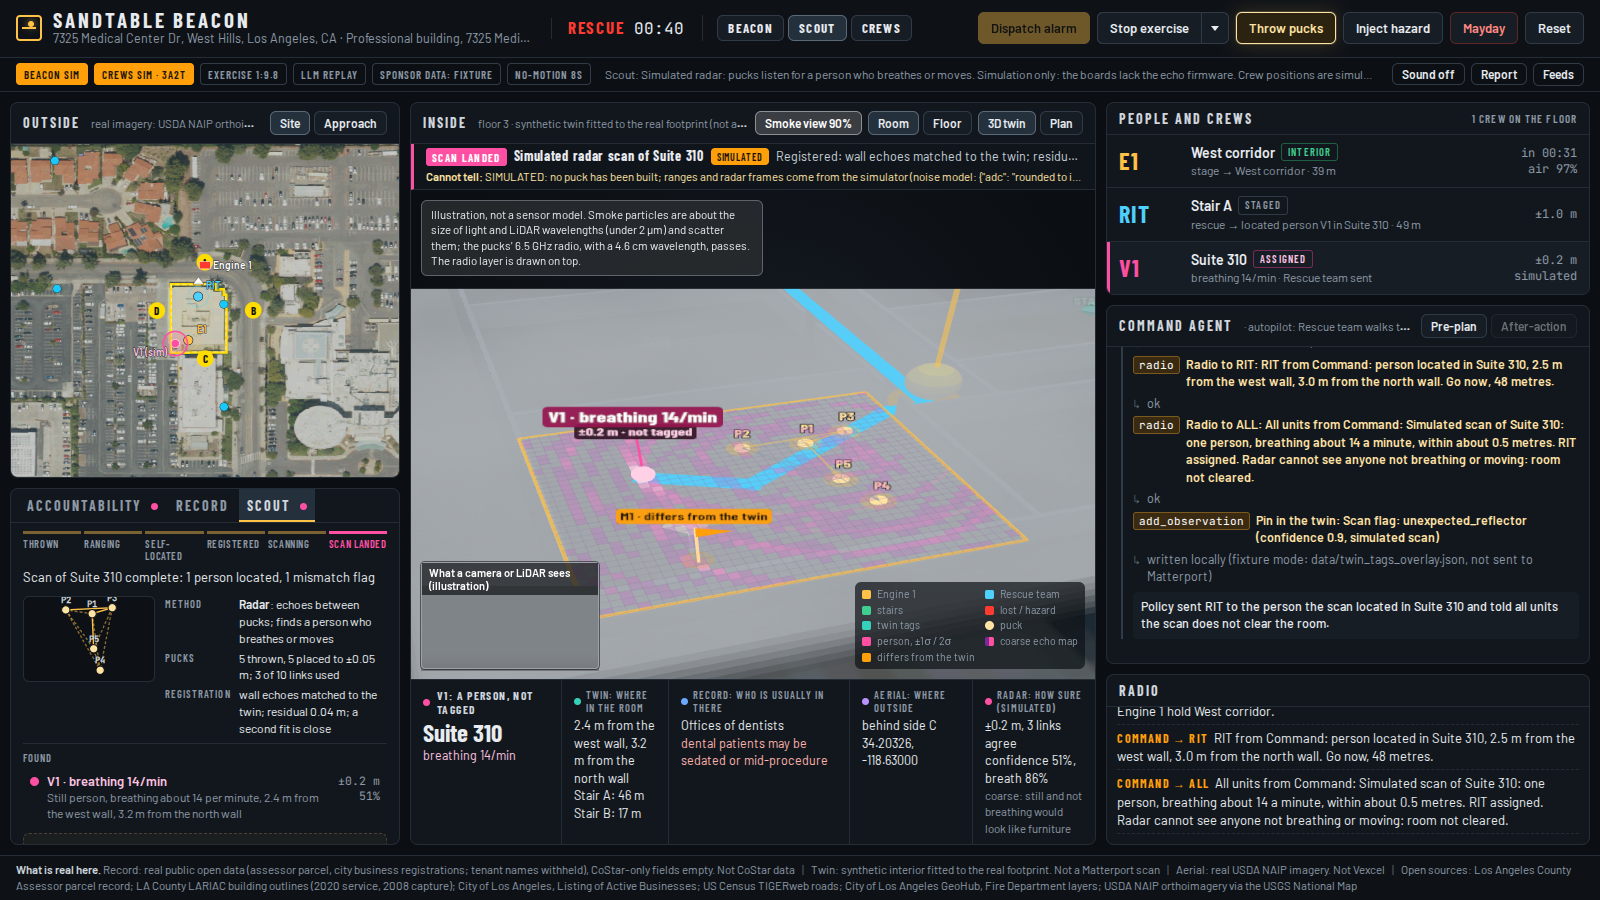
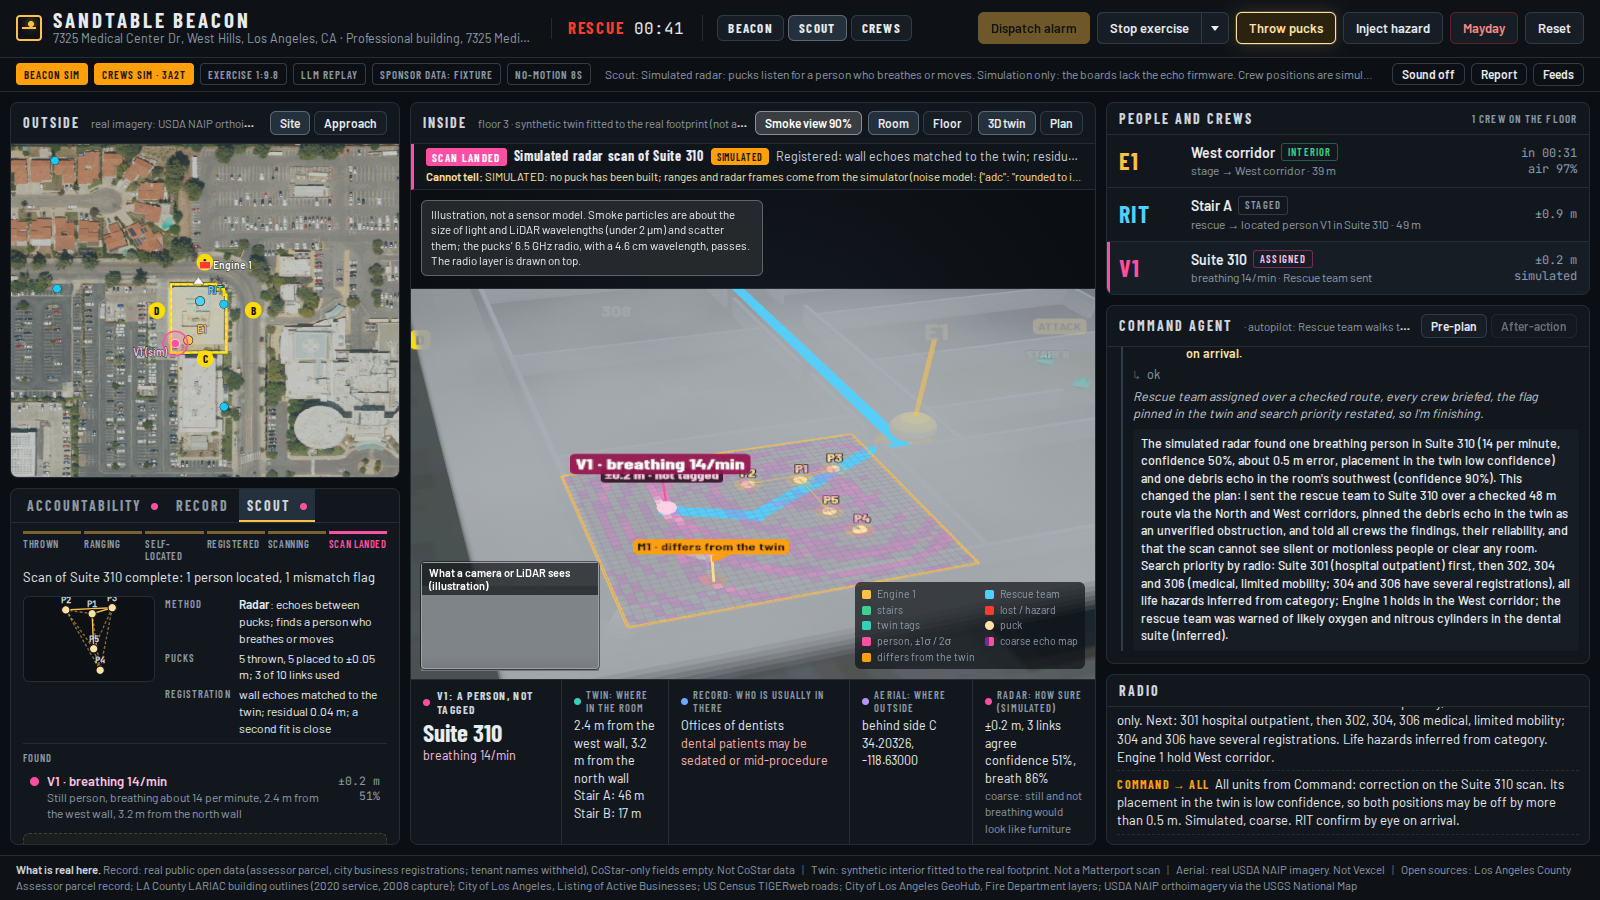
Sync Sat 15:08 CST: command board 85%, phones and pucks 92%

diff --git a/sandtable-live-fireground-twin/sandtable/beacon_link.py b/sandtable-live-fireground-twin/sandtable/beacon_link.py
@@ -496,6 +496,13 @@ def _accountability_live(beacons: dict | None, incident, twin, provider) -> dict
         rec, expd, name, hz = record_of(suite)
         here = [q for q in phones if _phone_room(q, twin) in ids and not (q.get("report") or {}).get("safe_outside")]
         n_people = sum(int((q.get("report") or {}).get("people") or 1) for q in here)
+        # The incident remembers every phone that reported from these rooms, also after a crew has brought its people out or the
+        # phone itself says it is outside: the row must never show fewer people than were reported here (the table once lagged).
+        mine = [q for q in incident.phones.values() if q.get("room") in ids]
+        n_phones = max(len(here), len(mine))
+        n_people = max(n_people, sum(int(q.get("people") or 1) for q in mine))
+        out_people = sum(int(q.get("people") or 1) for q in mine if q.get("status") == "out")
+        n_located = max(sum(1 for q in here if q.get("geometry") == "fix"), sum(1 for q in mine if q.get("geometry") == "fix" or q.get("status") in ("reached", "evacuating", "out")))
         cold = [c for c in presence if c.get("room") in ids]
         cold_n = max((int(c.get("count") or 0) for c in cold), default=0)
         cold_rng = [max((int((c.get("count_range") or [0, 0])[0]) for c in cold), default=0), max((int((c.get("count_range") or [0, 0])[1]) for c in cold), default=0)]
@@ -503,14 +510,14 @@ def _accountability_live(beacons: dict | None, incident, twin, provider) -> dict
         covered = any(i in puck_rooms for i in ids)
         if rec["status"] in ("available", "vacant") and (n_people or cold_n):
             state = "against-record"
-            what = (f"{len(here)} phone{'s' if len(here) != 1 else ''} report {_people_word(n_people)} in it" if n_people else f"{cold_n} devices are heard in it (devices, not people)")
+            what = (f"{n_phones} phone{'s' if n_phones != 1 else ''} report {_people_word(n_people)} in it" if n_people else f"{cold_n} devices are heard in it (devices, not people)")
             why = ("the record lists this suite as available space with no tenant; " if rec["status"] == "available" else "the record has no current tenant for this suite; ") + what
         elif n_people and rec["status"] == "unnamed":
             state = "people-reported"
             why = (f"the record has an occupancy entry for this suite but names no tenant and gives no head count; "
-                   f"{len(here)} phone{'s' if len(here) != 1 else ''} report {_people_word(n_people)} in it")
+                   f"{n_phones} phone{'s' if n_phones != 1 else ''} report {_people_word(n_people)} in it")
         elif n_people:
-            state, why = "people-reported", f"{len(here)} phone{'s' if len(here) != 1 else ''} report {_people_word(n_people)}; {sum(1 for q in here if q.get('geometry') == 'fix')} located to a point"
+            state, why = "people-reported", f"{n_phones} phone{'s' if n_phones != 1 else ''} report {_people_word(n_people)}; {n_located} located"
         elif cold_n:
             state, why = "devices-heard", f"{cold_n} devices heard and no opt-in phone: devices are not people"
         elif covered:
@@ -526,9 +533,9 @@ def _accountability_live(beacons: dict | None, incident, twin, provider) -> dict
             un = {"low": max(0, expd["low"] - accounted), "high": max(0, expd["high"] - accounted)}
         label = rs[0]["label"] if len(rs) == 1 else f"Suite {suite} ({len(rs)} rooms)"
         rows_in.append({"suite": suite, "room": ids[0], "rooms": ids, "room_label": label, "tenant": name, "life_hazard": hz, "expected": expd,
-                        "phones_opt_in": len(here), "people_reported": n_people, "located": sum(1 for q in here if q.get("geometry") == "fix"),
+                        "phones_opt_in": n_phones, "people_reported": n_people, "people_out": out_people, "located": n_located,
                         "cold_devices": cold_n, "cold_range": cold_rng, "safe_outside": safe, "unaccounted": un, "state": state, "priority": None, "why": why,
-                        "scope": "scan", "record": rec, "covered": covered, "_targets": sorted(q["id"] for q in here)})
+                        "scope": "scan", "record": rec, "covered": covered, "_targets": sorted({q["id"] for q in here} | {q["id"] for q in mine})})
     in_twin = {r["suite"] for r in rows_in if r["suite"] is not None}
     for suite in sorted((k for k in by_tenant if k is not None and k not in in_twin and named(by_tenant[k])), key=str):
         rec, expd, name, hz = record_of(suite)
@@ -562,7 +569,10 @@ def _accountability_live(beacons: dict | None, incident, twin, provider) -> dict
         said = (f"The record lists {r['room_label']} as available space with no tenant" if r["record"]["status"] == "available"
                 else f"The record does not say who is in {r['room_label']} (an occupancy entry with no tenant named and no head count)" if r["record"]["status"] == "unnamed"
                 else f"The record has no current tenant for {r['room_label']}")
-        parts.append(f"{said}; the phones say {_people_word(r['people_reported'])} {'is' if r['people_reported'] == 1 else 'are'} in it.")
+        n_rep, n_out = r["people_reported"], r.get("people_out") or 0
+        parts.append(f"{said}; " + (f"the phones reported {_people_word(n_rep)} in it, all brought out." if n_out and n_out >= n_rep
+                                    else f"the phones reported {_people_word(n_rep)} in it, {n_out} brought out so far." if n_out
+                                    else f"the phones say {_people_word(n_rep)} {'is' if n_rep == 1 else 'are'} in it."))
     if not (against or unnamed_rows):
         rep = sum(r["people_reported"] for r in rows_in)
         parts.append(f"Phones report {_people_word(rep)} on this storey." if rep else "No phone reports anyone on this storey yet.")

diff --git a/sandtable-live-fireground-twin/README.md b/sandtable-live-fireground-twin/README.md
@@ -4,11 +4,15 @@
 
 When a commercial building is on fire, the incident commander's hardest question is who is still inside, and where. Sandtable Beacon is a command and reporting centre for that question. When the alarm comes in, an AI command agent reads three layers for the address (the building record with its tenants, the aerial image, the 3D twin) and writes the pre-incident plan. A crew places small pucks (Qorvo DWM3001CDK boards: Bluetooth and UWB) in the building. Occupants who opened an opt-in app are ranged through their phones, and each phone is drawn as what the measurement supports: a ring, two candidate points, or one point, in the right room and beside who the building record expects there. The agent prioritises, routes a rescue crew through the twin, issues the radio order and writes the report the command post keeps. The same code has run privately on live CoStar, Matterport and Vexcel data for one real building; this repository runs on labelled stand-ins, and phones, pucks and crews are simulated.
 
-![Two pucks, two phones: the twin rules out one phone's mirror place, the other stays two places](figures/ui_beacon_15_dev_sample_wall_rules_out_mirror.png)
+![Two pucks, one phone: the twin rules out the phone's mirror place outside the building](figures/ui_beacon_04_two_puck_moment_3d.png)
 
-*Two pucks placed by hand (P1, P2) in Suite 310 of the stand-in building hear two phones. Phone B1's two candidate places are mirror images across the line between the pucks; one falls outside the building outline, so the twin rules it out (the red cross) and B1 becomes a point, beside what the stand-in record has for that suite (a dental office; patients may be sedated). Phone B2's two places are both inside the room: the board says "cannot choose: 2 places" with their weights. Made with the board's development sample (`DEV SAMPLE` badge: hand-made phones, not a measurement); crews simulated; the agent turns shown are the labelled fallback policy.*
+*The hands-free beacon run on the stand-in building (phones, pucks and crews simulated; the agent turns are replays of a recorded real model run). Two pucks placed by hand (P1, P2) in Suite 310 hear phone B1. Its two possible places are mirror images across the line between the pucks (the dashed mirror line); one falls outside the building, so the twin rules it out ("ruled out: outside the building") and B1 becomes a point, beside what the stand-in record has for that suite (a dental office; patients may be sedated). The badges say what is real: `BEACON REPLAY · SIM`, `REPLAY, MODULE NOT LIVE`, `SPONSOR DATA: FIXTURE`.*
 
-![The same moment on the 2-D plan](figures/ui_beacon_16_dev_sample_resolved_and_unresolved_plan.png)
+![The same moment on the 2-D plan](figures/ui_beacon_05_two_puck_moment_plan.png)
+
+![A moment later: B1 a point, B2 still two places](figures/ui_beacon_06_b2_cannot_choose.png)
+
+*The same run a moment later: B1 is a point; phone B2's two places are both inside Suite 310, so the board says "cannot choose: 2 places" and the agent orders a search, which settles it (`figures/ui_beacon_09_search_result_b2_point.png`).*
 
 Built for HackPrinceton Fall 2026. Main track: **Healthcare**. Special tracks: **CoStar "Inside and Out: AI for the Built World"** (primary), **Best Hardware Hack**, **Best Physical AI Hack**, **Amazon Best Practical AI Innovation**.
 

diff --git a/TASKS.md b/TASKS.md
@@ -1,6 +1,6 @@
 # Tasks and handoff
 
-Last synced from the build server: **Sat Nov 14 2026, 2:53 PM CST**. This file is regenerated on every sync from the two teams' own status files, so it stays current. Agents on the build server are still working; pull again before you start a task.
+Last synced from the build server: **Sat Nov 14 2026, 3:08 PM CST**. This file is regenerated on every sync from the two teams' own status files, so it stays current. Agents on the build server are still working; pull again before you start a task.
 
 Deadline: **Sunday Nov 15, 8:00 am Princeton time** (Devpost). Judging 9:30 am to 12:30 pm, in person, 2 minutes per judge.
 
